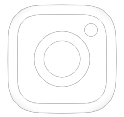
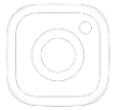
[m - v3] Cambios en el index

diff --git a/index.html b/index.html
@@ -2,87 +2,93 @@
 <html lang="en">
 
 <head>
-    <meta charset="UTF-8">
-    <meta html-equiv="X-UA-Compatible" content="IE=edge" >
-    <meta name="viewport" content="width=device-width, initial-scale=1">
+  <meta charset="UTF-8">
+  <meta html-equiv="X-UA-Compatible" content="IE=edge" >
+  <meta name="viewport" content="width=device-width, initial-scale=1">
     
-    <!--ENLACE A GOOGLE FONTS-->
-    <link rel="preconnect" href="https://fonts.googleapis.com">
-    <link rel="preconnect" href="https://fonts.gstatic.com" crossorigin>
-    <link href="https://fonts.googleapis.com/css2?family=Lato:ital,wght@0,400;1,100;1,300&family=Raleway:wght@100;300&display=swap" rel="stylesheet">
+  <!--ENLACE A GOOGLE FONTS-->
+  <link rel="preconnect" href="https://fonts.googleapis.com">
+  <link rel="preconnect" href="https://fonts.gstatic.com" crossorigin>
+  <link href="https://fonts.googleapis.com/css2?family=Indie+Flower&display=swap" rel="stylesheet">
 
-    <!--ENLACE ADAM FONTS-->
-    <link rel="stylesheet" type="text/css" href="./fonts/Adam-Bold.ttf">
+  <!--ENLACE ADAM FONTS-->
+  <link rel="stylesheet" type="text/css" href="./fonts/Adam-Bold.ttf">
 
-    <!--BOOTSTRAP-->
-    <link href="https://cdn.jsdelivr.net/npm/bootstrap@5.3.1/dist/css/bootstrap.min.css" rel="stylesheet" integrity="sha384-4bw+/aepP/YC94hEpVNVgiZdgIC5+VKNBQNGCHeKRQN+PtmoHDEXuppvnDJzQIu9" crossorigin="anonymous">
+  <!--BOOTSTRAP-->
+  <link href="https://cdn.jsdelivr.net/npm/bootstrap@5.3.1/dist/css/bootstrap.min.css" rel="stylesheet" integrity="sha384-4bw+/aepP/YC94hEpVNVgiZdgIC5+VKNBQNGCHeKRQN+PtmoHDEXuppvnDJzQIu9" crossorigin="anonymous">
 
-    <!--CSS-->
-    <link rel="stylesheet" href="./css/style.css">
-    
-    <title>Tina | Diseño de Interiores</title>
+  <!--CSS-->
+  <link rel="stylesheet" href="./css/style.css">
+   
+  <title>Tina | Diseño de Interiores</title>
 </head>
 
 <body>
-    <header>
+  <div class="container-fluid grid ">
+    <div class="row">
+      <div class="col">
+        <header class="enlaces">
         <nav class="navbar navbar-expand-lg bg-nav">
-            <div class="container-fluid contenedor-nav">
-              <a class="navbar-brand" href="./index.html"><img class="logo-nav"  src="./assets/Logo.jpeg" alt="Logo Tina | Diseño de Interiores"></a>
-              <button class="navbar-toggler boton-nav" type="button" data-bs-toggle="collapse" data-bs-target="#navbarSupportedContent" aria-controls="navbarSupportedContent" aria-expanded="false" aria-label="Toggle navigation">
-                <span class="navbar-toggler-icon"></span>
-              </button>
-              <div class="collapse navbar-collapse" id="navbarSupportedContent">
-                <ul class="navbar-nav me-auto mb-2 mb-lg-0 justify-content-end w-100 text-end">
-                  <li class="nav-item">
-                    <a class="nav-link font-nav" href="./index.html">INICIO</a>
-                  </li>
-                  <li class="nav-item">
-                    <a class="nav-link font-nav" href="./pages/conoceme.html">CONOCEME</a>
-                  </li>
-                  <li class="nav-item">
-                    <a class="nav-link font-nav" href="./pages/servicios.html">SERVICIOS</a>
-                  </li>
-                  <li class="nav-item">
-                    <a class="nav-link font-nav" href="./pages/portafolio.html">PORTAFOLIO</a>
-                  </li>
-                  <li class="nav-item">
-                    <a class="nav-link font-nav" href="./pages/contacto.html">CONTACTO</a>
-                  </li>
-                </ul>
-                
-              </div>
+          <div class="container-fluid contenedor-nav">
+            <a class="navbar-brand" href="./index.html"><img class="logo-nav"  src="./assets/Logo.jpeg" alt="Logo Tina | Diseño de Interiores"></a>
+            <button class="navbar-toggler boton-nav" type="button" data-bs-toggle="collapse" data-bs-target="#navbarSupportedContent" aria-controls="navbarSupportedContent" aria-expanded="false" aria-label="Toggle navigation">
+              <span class="navbar-toggler-icon"></span>
+            </button>
+            <div class="collapse navbar-collapse" id="navbarSupportedContent">
+              <ul class="navbar-nav me-auto mb-2 mb-lg-0 justify-content-end w-100 text-end">
+                <li class="nav-item">
+                  <a class="nav-link font-nav" href="./index.html">INICIO</a>
+                </li>
+                <li class="nav-item">
+                  <a class="nav-link font-nav" href="./pages/conoceme.html">CONOCEME</a>
+                </li>
+                <li class="nav-item">
+                  <a class="nav-link font-nav" href="./pages/servicios.html">SERVICIOS</a>
+                </li>
+                <li class="nav-item">
+                  <a class="nav-link font-nav" href="./pages/portafolio.html">PORTAFOLIO</a>
+                </li>
+                <li class="nav-item">
+                  <a class="nav-link font-nav" href="./pages/contacto.html">CONTACTO</a>
+                </li>
+              </ul>
             </div>
-      </nav>
-    </header>
+          </div>
+        </nav>
+        </header>
+      </div>
+    </div>
 
-    <main> 
-        <img class="img-portada" src="./assets/portada.jpg" alt="Imagen de un living">
-        <p class="frase">"Tu estilo, tu esencia, nuestros diseños:<br>espacios únicos que se moldean a tus sueños. <br>Fusionamos arte y funcionalidad en cada detalle,<br>creando una experiencia que deslumbra."</p>
-    </main>
+    <div class="row">
+      <div class="col img-portada">
+        <main> 
+          <p class="frase">"Tu estilo, tu esencia, nuestros diseños:<br>espacios únicos que se moldean a tus sueños. <br>Fusionamos arte y funcionalidad en cada detalle,<br>creando una experiencia que deslumbra."</p>
+        </main>
 
-    <footer>
-        <section class="section-footer">
-            <div class="contenedor-iconos">
-                <!--ENLACE A WHATSAPP WEB-->
-                <a class="contenedor-enlace" href="https://wa.link/lldf3s">
-                    <img class="icono-footer" src="./assets/icono_wapp.png" alt="Icono de whatsapp">
-                </a>
+        <footer class="section-footer">
+          <div class="contenedor-iconos">
+            <!--ENLACE A WHATSAPP WEB-->
+            <a class="contenedor-enlace" href="https://wa.link/lldf3s">
+              <img class="icono-footer" src="./assets/icono_wapp1.png" alt="Icono de whatsapp">
+            </a>
+            <!--ENLACE A PAGINA DE INSTAGRAM-->
+            <a class="contenedor-enlace" href="https://instagram.com/tinainteriores?igshid=MzRlODBiNWFlZA==">
+              <img class="icono-footer" src="./assets/icono_instagram1.png" alt="Icono de Instagram">
+            </a>
+            <!--ENLACE PARA ESCRIBIR UN MENSAJE-->
+            <a class="contenedor-enlace" href="./pages/contacto.html">
+              <img class="icono-footer" src="./assets/icono-correo1.png" alt="Icono de e-mail">
+            </a>
+          </div>
+        </footer>
+      </div>
+    </div>
 
-                <!--ENLACE A PAGINA DE INSTAGRAM-->
-                <a class="contenedor-enlace" href="https://instagram.com/tinainteriores?igshid=MzRlODBiNWFlZA==">
-                    <img class="icono-footer" src="./assets/icono_instagram.png" alt="Icono de Instagram">
-                </a>
+  </div>
 
-                <!--ENLACE PARA ESCRIBIR UN MENSAJE-->
-                <a class="contenedor-enlace" href="./pages/contacto.html">
-                    <img class="icono-footer" src="./assets/icono-correo.png" alt="Icono de e-mail">
-                </a>
-            </div>
-        </section>       
-    </footer>
+  <!--SCRIPT DE BOOTSTRAP-->
+  <script src="https://cdn.jsdelivr.net/npm/bootstrap@5.3.1/dist/js/bootstrap.bundle.min.js" integrity="sha384-HwwvtgBNo3bZJJLYd8oVXjrBZt8cqVSpeBNS5n7C8IVInixGAoxmnlMuBnhbgrkm" crossorigin="anonymous"></script>
 
-    <!--SCRIPT DE BOOTSTRAP-->
-    <script src="https://cdn.jsdelivr.net/npm/bootstrap@5.3.1/dist/js/bootstrap.bundle.min.js" integrity="sha384-HwwvtgBNo3bZJJLYd8oVXjrBZt8cqVSpeBNS5n7C8IVInixGAoxmnlMuBnhbgrkm" crossorigin="anonymous"></script>
 </body>
 
 </html>

diff --git a/css/style.css b/css/style.css
@@ -76,38 +76,46 @@ h1{
 }
 
 /*ESTILOS DEL INDEX*/
+.grid{
+    margin: 0;
+    padding: 0;
+}
 .frase{
-    font-family:'adam';
-    font-size:1.3em;
-    font-weight: 600;
+    display: flex;
+    text-align: center;
+    font-family:'Indie Flower', cursive;
+    font-size:1.1em;
     color:#5e615f;
     position: absolute;
-    top: 25%;
-    left: 28%;
+    top: 15%;
+    left: 30%;
     background: none;
 }
 .img-portada{
-    width: 100%;
+    background-image: url(../assets/portada.jpg);
+    background-size: cover;
+    height: 540px;
     padding: 0;
     margin: 0;
+    position: relative;
 }
 .section-footer{
-    display: flex;
+    position: absolute;
     bottom: 0;
-    justify-content: space-between;
-    align-items: center;
-    background-color:  #95a09a;
+    background-color:  transparent;
+    margin-bottom: 5px;
 }
 .contenedor-iconos{
-    background-color:  #95a09a;
+    margin-left: 42px;
+    background-color: transparent;
 }
 .contenedor-enlace{
-    background-color: #95a09a;
-    color: #95a09a;
+    background-color: transparent;
+    color: transparent;
 }
 .icono-footer{
-    background-color:#95a09a;
-    width: 13%;
+    background-color:transparent;
+    width: 11%;
 }
 
 /*ESTILOS DE SERVICIOS*/
